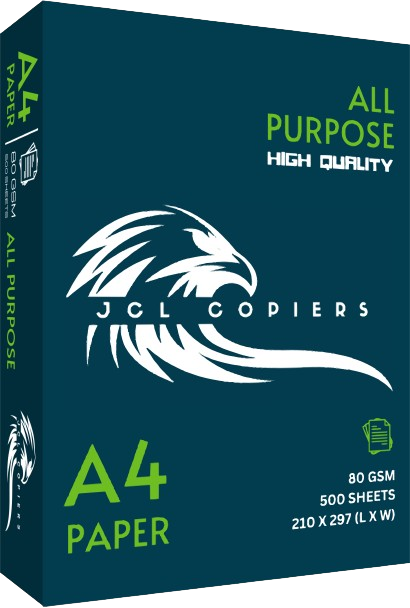
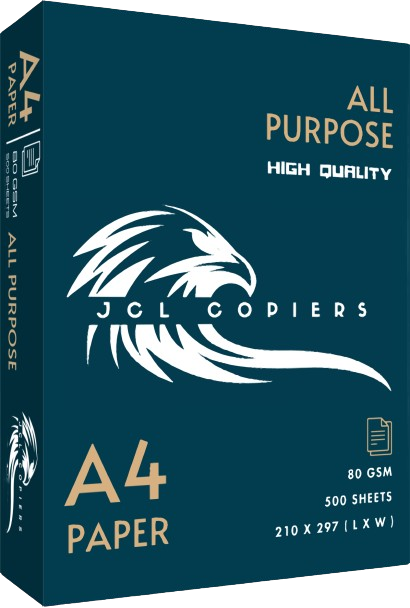
theme colors changed

diff --git a/static/css/main.css b/static/css/main.css
@@ -8,10 +8,10 @@
   :root {
     --background-color: #ffffff;
     --background-color-rgb: 255, 255, 255;
-    --default-color: #6dbe22;
+    --default-color: #e6c496;
     --default-color-rgb: 33, 37, 41;
     --primary-color: #003b4d;
-    --primary-color-rgb: 110,190,35;
+    --primary-color-rgb: 230,196,150;
     --secondary-color: #212529;
     --secondary-color-rgb: 50, 53, 58;
     --contrast-color: #ffffff;
@@ -209,7 +209,7 @@
     --background-color: #ffffff;
     --secondary-color: #444444;
     --nav-color: #444444;
-    --nav-hover-color: #6dbe22;
+    --nav-hover-color: #e6c496;
     box-shadow: 0 0 30px 10px rgba(0, 0, 0, 0.1);
   }
   
@@ -240,7 +240,7 @@
     --background-color: #ffffff;
     --secondary-color: #444444;
     --nav-color: #444444;
-    --nav-hover-color: #6dbe22;
+    --nav-hover-color: #e6c496;
   }
   
   .navmenu a {
@@ -970,7 +970,7 @@
     font-size: 32px;
     line-height: 0;
     transition: all 0.4s ease-out 0s;
-    background-color: rgba(var(--primary-color-rgb), 0.05);
+    background-color: rgba(var(--primary-color-rgb), 0.09);
     color: var(--primary-color);
   }
   

diff --git a/templates/product.html b/templates/product.html
@@ -45,7 +45,7 @@
           color: #fff;
         }
         .navbar a:hover{
-          color:  #6dbe22;
+          color:  #e6c496;
         }
         .page-title .heading .container .row .col-lg-8 h1{
           color: #003b4d;
@@ -74,7 +74,7 @@
           outline: none;
         }
         .buy-btn {
-          background-color: #6dbe22;
+          background-color: #e6c496;
           color: #fff;
           opacity: 1;
           padding: 5px 20px;
@@ -124,7 +124,7 @@
         }
 
         .blog .posts-list .title a:hover {
-          color: #6dbe22;
+          color: #e6c496;
         }
 
         .blog .posts-list .post-author-img {
@@ -160,7 +160,7 @@
           transform: scale(1.08);
         }
         .product .buy-btn1{
-          background-color: #6dbe22;
+          background-color: #e6c496;
           color: #fff;
           transform: translateY(20px);
           opacity: 0;
